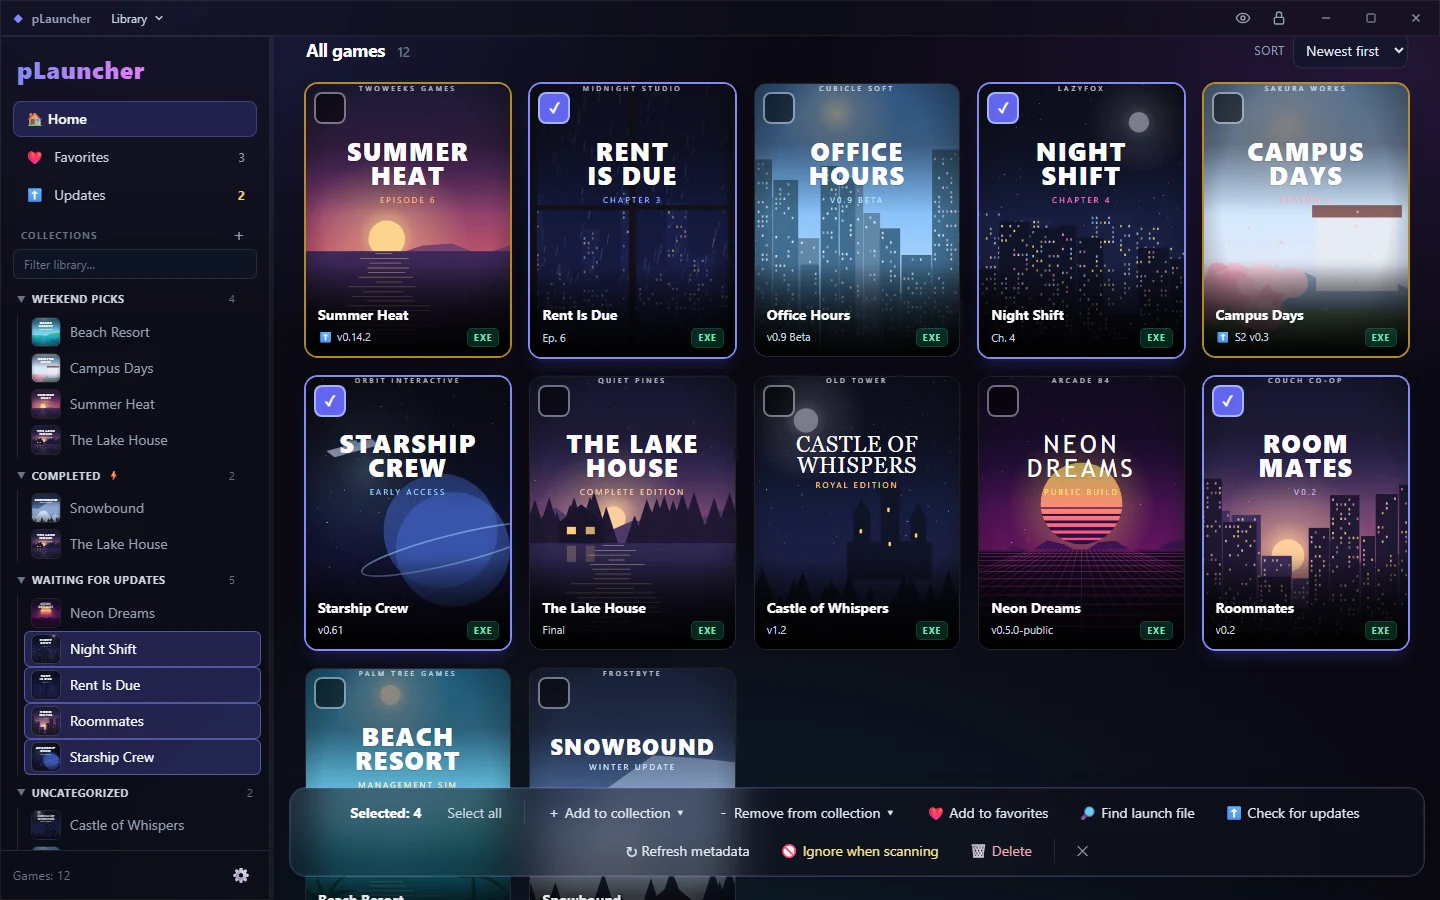
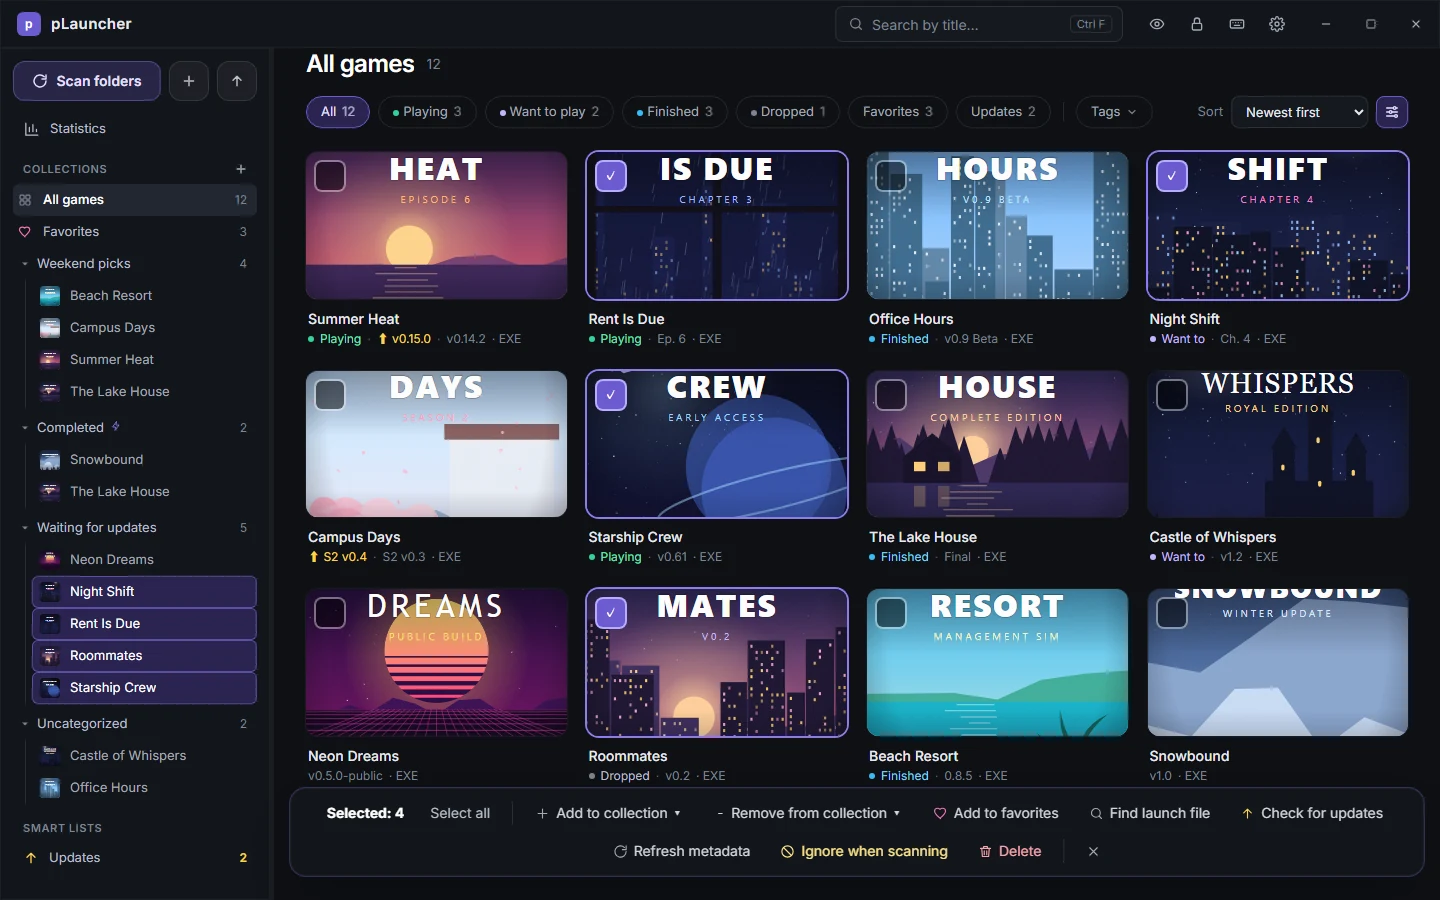
Refresh README screenshots for the current UI
Capture ten fictional UI states and refresh the banner. Add a collapsible gallery for search, statistics, launch files and smart-list progress.

Make screenshot generation wait for verified UI states, local images and fonts. Fix the selection scenario and record Windows capture and regression validation in AGENTS.md.

diff --git a/docs/tools/screenshots/convert.py b/docs/tools/screenshots/convert.py
@@ -8,10 +8,13 @@ import sys
 from PIL import Image
 
 src, dst = sys.argv[1], sys.argv[2]
+selected = set(sys.argv[3:])
 for name in sorted(os.listdir(src)):
     if not name.endswith('.png'):
         continue
     base = name[:-4]
+    if selected and base not in selected:
+        continue
     im = Image.open(os.path.join(src, name)).convert('RGB')
     im.save(os.path.join(dst, base + '.webp'), 'WEBP', quality=90 if base == 'banner' else 88, method=6)
     if base == 'banner':

diff --git a/AGENTS.md b/AGENTS.md
@@ -335,8 +335,8 @@ Owner's note: #1 (update checking) and #2 (statuses) are expected to give the bi
    and sequential confident name lookup, progress/Stop and privacy cancellation.
    Delivery notes: [`docs/specs/smart-lists.md`](docs/specs/smart-lists.md).
 5. ✅ **DONE — Small game-page polish:** hotkey reference, update-discovery and note-edit dates, originating
-   list/position and neighbouring-game navigation. README screenshots remain for the release
-   (`docs/tools/screenshots/make.ps1`); mock data includes the new dates.
+   list/position and neighbouring-game navigation. README screenshots refreshed before release
+   via `docs/tools/screenshots/make.ps1` (2026-11-07), including the new feature states.
 
 **Ideas, not agreed (don't start without the owner):** a dense list view like mockup B (title, status, version,
 engine, played, last played, size; sortable headers).
@@ -549,3 +549,23 @@ smart-lists-fixture.cjs and test-smart-lists.cjs exercise the batch without exte
 
 Windows validation: vet/test/build.ps1 and all six headless scripts passed (293 assertions, including
 43 smart-list checks). Live services, real library/native window and Linux/macOS remain untested.
+
+### README screenshot refresh (2026-11-07)
+
+make.ps1 now captures ten fictional UI states plus the banner through capture-readme.cjs/CDP.
+The helper waits for ready state and fonts, verifies the requested controls, loaded local images and
+absence of browser exceptions/external requests. Port/CDPPort are configurable; occupied ports fail
+before launching dedicated hidden Edge and the loopback-only HTTP server. Conversion selects only the
+requested shots. Bulk selection now opens View options before Select. `&readme=1` performs presentation
+actions for find/stats/launch/editor/smart without changing regression scenarios' starting state.
+
+README retains the main library/detail/privacy/bulk views and adds a collapsible gallery for name search,
+statistics, the combined launch menu, checkbox discovery and bulk-search progress. Detail shows list
+position, update/notes dates, launch files and sessions. All images use generated SFW art and fictional
+paths; no actual library, source API, native file dialog or game executable is used. The previous notes
+saying README images were pending describe earlier steps; this refresh completes that release item.
+
+Verified on Windows: Vite build, make.ps1 (all ten UI states + banner), decoded image dimensions and
+all eleven README image references, plus all six regression scripts (293 assertions). Every final
+capture was visually inspected. Native Wails/backend checks were not repeated for this documentation
+and screenshot-tool-only change; real-library and live-site acceptance are not part of these images.

diff --git a/docs/tools/screenshots/README.md b/docs/tools/screenshots/README.md
@@ -6,7 +6,8 @@ generated SFW artwork, so screenshots can be refreshed after UI changes.
 ```powershell
 cd game-launcher; .\build.ps1 -NoTests        # the frontend must be built (frontend/dist)
 cd ..\docs\tools\screenshots
-.\make.ps1                                    # all shots; or .\make.ps1 -Shots home,detail
+.\make.ps1                                    # all ten UI states + banner
+.\make.ps1 -Shots home,detail -Port 5394 -CDPPort 9336  # subset / alternate ports
 ```
 
 Requirements: Windows with Microsoft Edge, Node.js, Python with Pillow (`pip install pillow`).
@@ -15,10 +16,22 @@ Requirements: Windows with Microsoft Edge, Node.js, Python with Pillow (`pip ins
 |---|---|
 | `games.cjs` | The fictional library: titles, versions, tags, descriptions, dialogue lines. |
 | `art.cjs` | Generates SVG covers (600×900) and in-game shots (1280×720) into `out/media/covers`. |
-| `build-ui.cjs` | Copies `frontend/dist` into `out/ui` with a Wails mock: the library data plus shot scenarios (`?shot=home\|detail\|discreet\|bulk\|menu\|settings`). |
+| `build-ui.cjs` | Copies `frontend/dist` into `out/ui` with a Wails mock: the library data plus shot scenarios (`?shot=home\|detail\|discreet\|bulk\|settings\|find\|stats\|launch\|editor\|smart`). |
 | `banner.html` | The README banner / social preview (1280×640). |
 | `make.ps1` | Runs everything: art → UI → headless Edge screenshots → WebP in `docs/images`. |
+| `capture-readme.cjs` | CDP capture with scenario, asset, runtime-error and external-request checks. |
 | `convert.py` | PNG → WebP, banner → `social-preview.png`. |
+
+README automation uses `&readme=1`; regression fixtures keep their normal initial state without it.
+The ten shots are home, detail, discreet, bulk, settings, find, stats, launch, editor and smart.
+Detail/editor use 1440×1500 to include notes/sessions and checkbox discovery; find/stats/launch use
+1440×1100, the rest 1440×900. The banner remains 1280×640. The smart shot pauses a fictional response
+at 1 of 3; it never sends a request to a real source. Bulk selection opens View options first.
+
+`make.ps1` binds the local server to loopback, uses a dedicated Edge profile, rejects occupied ports,
+and fails if a scenario, asset or browser check fails. CDP waits for readiness and fonts; it does not
+rely on a fixed virtual-time screenshot. Conversion touches only shots requested in that invocation.
+The helper verifies new states before capture; visual inspection is still required before committing.
 
 A new scenario is a branch in the `load` handler at the end of the mock in `build-ui.cjs`.
 `out/` is temporary and git-ignored.

diff --git a/README.md b/README.md
@@ -25,7 +25,7 @@ Which of the forty folders called `Game` was it, anyway?
 no telemetry. And if someone walks in, one keypress hides it all.
 
 <p align="center">
-  <img src="docs/images/home.webp" alt="Library home: hero banner, favorites and continue-playing shelves" width="100%">
+  <img src="docs/images/home.webp" alt="Library grid with play statuses, updates, collections and filters" width="100%">
 </p>
 
 ## Features
@@ -54,7 +54,7 @@ cover and up to 15 screenshots.
 | Steam (official API) | *more are welcome, see [Contributing](#contributing)* |
 
 <p align="center">
-  <img src="docs/images/detail.webp" alt="Game page with an update badge, tags and screenshots" width="100%">
+  <img src="docs/images/detail.webp" alt="Game page with update discovery date, notes, launch files and play sessions" width="100%">
 </p>
 
 ### ⬆ Update tracking
@@ -90,6 +90,26 @@ Your *Waiting for updates* collection has never been this easy to keep up with.
 <p align="center">
   <img src="docs/images/bulk.webp" alt="Selection mode with the bulk actions bar" width="100%">
 </p>
+
+<details>
+<summary>More views: search, statistics, launch files and smart lists</summary>
+
+<p>Find game info by name across F95zone, Steam and VNDB, then review a match before saving.</p>
+<img src="docs/images/find.webp" alt="Search-by-name results with source metadata and match reasons" width="100%">
+
+<p>Statistics for the visible library: playtime totals, weekly activity and top games.</p>
+<img src="docs/images/stats.webp" alt="Library statistics with weekly activity and top games" width="100%">
+
+<p>The menu beside Play combines launch files and game actions. Only the primary file records playtime.</p>
+<img src="docs/images/launch.webp" alt="Combined Play dropdown with a starred primary file, configuration tool and walkthrough" width="100%">
+
+<p>Edit the primary file and labels, or find additional files in the game folder.</p>
+<img src="docs/images/editor.webp" alt="Game editor with launch-file labels, primary stars and checkbox discovery" width="100%">
+
+<p>Smart lists find missing launch files and search for source links, with progress and a Stop button.</p>
+<img src="docs/images/smart.webp" alt="No source link smart list during a bulk name search, with progress and Stop" width="100%">
+
+</details>
 
 ## Download
 
